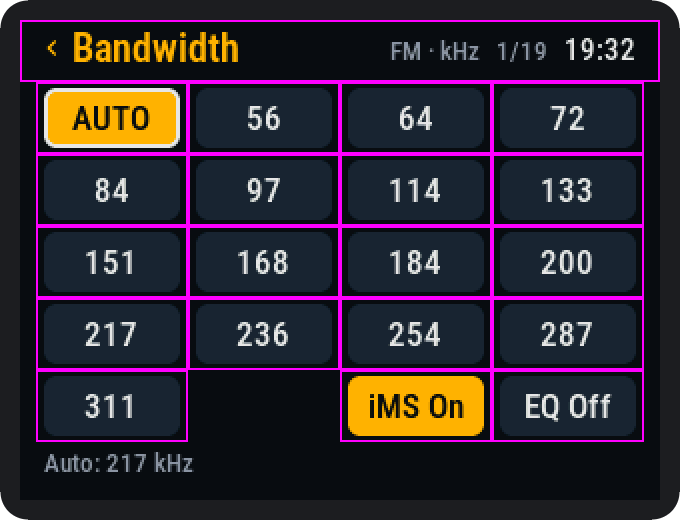
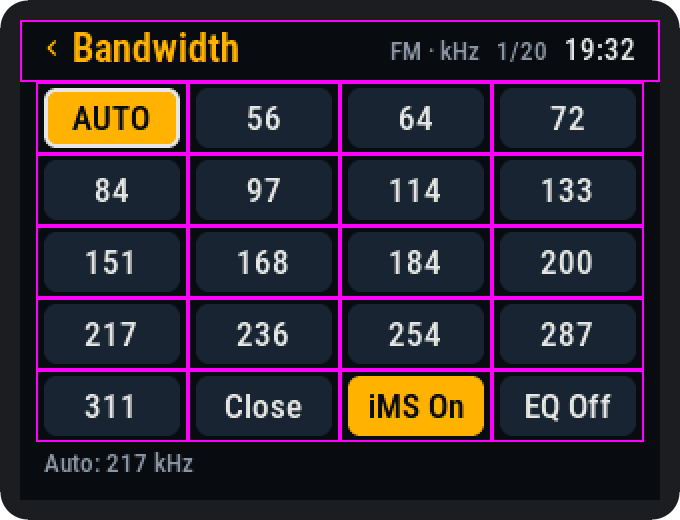
Add a Close tile to the bandwidth page (#126)
The way back now shows on the page and the knob alone reaches it: in
the free cell after 311 on FM, under the first width on AM. A tap or
the knob's press on it closes the page, as MODE does.

Changed region(s): [[0.2779, 0.7077, 0.4941, 0.8615], [0.7721, 0.0615, 0.8029, 0.1231]]

diff --git a/test/test_screen_bw_state/test_screen_bw_state.cpp b/test/test_screen_bw_state/test_screen_bw_state.cpp
@@ -77,7 +77,7 @@ static void no_tiles_still_fills_the_header(void) {
   in.tiles = NULL;
   build(&in);
   TEST_ASSERT_EQUAL_STRING("FM" DOT "kHz", view.context);
-  TEST_ASSERT_EQUAL_STRING("1/19", view.position);
+  TEST_ASSERT_EQUAL_STRING("1/20", view.position);
   for (uint8_t i = 0; i < SCREEN_BW_TILES; i++) {
     TEST_ASSERT_NULL(view.tile[i].text);
   }
@@ -107,8 +107,8 @@ static void more_tiles_than_the_page_holds_are_cut(void) {
   in.count = SCREEN_BW_TILES + 6;
   build(&in);
   TEST_ASSERT_EQUAL_UINT8(SCREEN_BW_TILES, view.count);
-  TEST_ASSERT_EQUAL_STRING("1/19", view.position);
-  TEST_ASSERT_EQUAL_STRING("118", view.tile[SCREEN_BW_TILES - 1].text);
+  TEST_ASSERT_EQUAL_STRING("1/20", view.position);
+  TEST_ASSERT_EQUAL_STRING("119", view.tile[SCREEN_BW_TILES - 1].text);
 }
 
 /* ------------------------------------------------------------- FM */
@@ -117,9 +117,9 @@ static void fm_lists_automatic_first_then_the_widths_and_the_switches(void) {
   const ScreenBwInputs in = inputs(BAND_FM, false);
   build(&in);
   TEST_ASSERT_EQUAL_STRING("FM" DOT "kHz", view.context);
-  TEST_ASSERT_EQUAL_STRING("1/19", view.position);
+  TEST_ASSERT_EQUAL_STRING("1/20", view.position);
   TEST_ASSERT_EQUAL_STRING("19:32", view.clock);
-  TEST_ASSERT_EQUAL_UINT8(19, view.count);
+  TEST_ASSERT_EQUAL_UINT8(20, view.count);
   TEST_ASSERT_TRUE(view.hasSwitches);
   TEST_ASSERT_EQUAL_UINT8(SCREEN_BW_WIDTH, view.tile[0].kind);
   TEST_ASSERT_EQUAL_STRING("AUTO", view.tile[0].text);
@@ -129,10 +129,13 @@ static void fm_lists_automatic_first_then_the_widths_and_the_switches(void) {
   for (uint8_t i = 0; i < 17; i++) {
     TEST_ASSERT_EQUAL_UINT8(SCREEN_BW_WIDTH, view.tile[i].kind);
   }
-  TEST_ASSERT_EQUAL_UINT8(SCREEN_BW_IMS, view.tile[17].kind);
-  TEST_ASSERT_EQUAL_STRING("iMS Off", view.tile[17].text);
-  TEST_ASSERT_EQUAL_UINT8(SCREEN_BW_EQ, view.tile[18].kind);
-  TEST_ASSERT_EQUAL_STRING("EQ Off", view.tile[18].text);
+  TEST_ASSERT_EQUAL_UINT8(SCREEN_BW_CLOSE, view.tile[17].kind);
+  TEST_ASSERT_EQUAL_STRING("Close", view.tile[17].text);
+  TEST_ASSERT_FALSE(view.tile[17].filled);
+  TEST_ASSERT_EQUAL_UINT8(SCREEN_BW_IMS, view.tile[18].kind);
+  TEST_ASSERT_EQUAL_STRING("iMS Off", view.tile[18].text);
+  TEST_ASSERT_EQUAL_UINT8(SCREEN_BW_EQ, view.tile[19].kind);
+  TEST_ASSERT_EQUAL_STRING("EQ Off", view.tile[19].text);
 }
 
 /* On automatic, the automatic tile is the one filled, and the cursor sits
@@ -152,7 +155,7 @@ static void the_width_in_use_is_filled_and_the_cursor_starts_on_it(void) {
   in.widthKHz = 114;
   in.cursor = bwPageStart(tiles, in.count, 114);
   build(&in);
-  TEST_ASSERT_EQUAL_STRING("7/19", view.position);
+  TEST_ASSERT_EQUAL_STRING("7/20", view.position);
   TEST_ASSERT_EQUAL_STRING("114", view.tile[6].text);
   TEST_ASSERT_TRUE(view.tile[6].filled);
   TEST_ASSERT_TRUE(view.tile[6].cursor);
@@ -168,8 +171,9 @@ static void the_cursor_can_sit_on_another_tile(void) {
   in.widthKHz = 114;
   in.cursor = 17;
   build(&in);
-  TEST_ASSERT_EQUAL_STRING("18/19", view.position);
+  TEST_ASSERT_EQUAL_STRING("18/20", view.position);
   TEST_ASSERT_TRUE(view.tile[17].cursor);
+  TEST_ASSERT_EQUAL_STRING("Close", view.tile[17].text);
   TEST_ASSERT_FALSE(view.tile[6].cursor);
   TEST_ASSERT_TRUE(view.tile[6].filled);
   TEST_ASSERT_EQUAL_UINT8(1, cursorCount());
@@ -181,18 +185,18 @@ static void the_switches_show_the_radio_s_state(void) {
   in.ims = true;
   in.eq = false;
   build(&in);
-  TEST_ASSERT_EQUAL_STRING("iMS On", view.tile[17].text);
-  TEST_ASSERT_TRUE(view.tile[17].filled);
-  TEST_ASSERT_EQUAL_STRING("EQ Off", view.tile[18].text);
-  TEST_ASSERT_FALSE(view.tile[18].filled);
+  TEST_ASSERT_EQUAL_STRING("iMS On", view.tile[18].text);
+  TEST_ASSERT_TRUE(view.tile[18].filled);
+  TEST_ASSERT_EQUAL_STRING("EQ Off", view.tile[19].text);
+  TEST_ASSERT_FALSE(view.tile[19].filled);
 
   in.ims = false;
   in.eq = true;
   build(&in);
-  TEST_ASSERT_EQUAL_STRING("iMS Off", view.tile[17].text);
-  TEST_ASSERT_FALSE(view.tile[17].filled);
-  TEST_ASSERT_EQUAL_STRING("EQ On", view.tile[18].text);
-  TEST_ASSERT_TRUE(view.tile[18].filled);
+  TEST_ASSERT_EQUAL_STRING("iMS Off", view.tile[18].text);
+  TEST_ASSERT_FALSE(view.tile[18].filled);
+  TEST_ASSERT_EQUAL_STRING("EQ On", view.tile[19].text);
+  TEST_ASSERT_TRUE(view.tile[19].filled);
   /* The width tile and the switch that is on: two filled. */
   TEST_ASSERT_EQUAL_UINT8(2, filledCount());
 }
@@ -215,8 +219,8 @@ static void dx_mode_leaves_out_automatic(void) {
   in.widthKHz = 114;
   in.cursor = bwPageStart(tiles, in.count, 114);
   build(&in);
-  TEST_ASSERT_EQUAL_UINT8(18, view.count);
-  TEST_ASSERT_EQUAL_STRING("6/18", view.position);
+  TEST_ASSERT_EQUAL_UINT8(19, view.count);
+  TEST_ASSERT_EQUAL_STRING("6/19", view.position);
   TEST_ASSERT_EQUAL_STRING("56", view.tile[0].text);
   for (uint8_t i = 0; i < view.count; i++) {
     TEST_ASSERT_NOT_EQUAL(0, strcmp("AUTO", view.tile[i].text));
@@ -242,8 +246,10 @@ static void the_am_bands_have_four_widths_and_no_switches(void) {
     in.cursor = bwPageStart(tiles, in.count, 6);
     build(&in);
     TEST_ASSERT_EQUAL_STRING(am[b].context, view.context);
-    TEST_ASSERT_EQUAL_UINT8(4, view.count);
-    TEST_ASSERT_EQUAL_STRING("3/4", view.position);
+    TEST_ASSERT_EQUAL_UINT8(5, view.count);
+    TEST_ASSERT_EQUAL_STRING("3/5", view.position);
+    TEST_ASSERT_EQUAL_UINT8(SCREEN_BW_CLOSE, view.tile[4].kind);
+    TEST_ASSERT_EQUAL_STRING("Close", view.tile[4].text);
     TEST_ASSERT_FALSE(view.hasSwitches);
     TEST_ASSERT_EQUAL_STRING("3", view.tile[0].text);
     TEST_ASSERT_EQUAL_STRING("4", view.tile[1].text);

diff --git a/test/test_bw_page/test_bw_page.cpp b/test/test_bw_page/test_bw_page.cpp
@@ -21,33 +21,36 @@ static uint8_t widthsIn(const BwTile *page, uint8_t count) {
 
 static void fm_has_automatic_sixteen_widths_and_two_switches(void) {
   const uint8_t n = bwPageTiles(BAND_FM, false, tiles, BW_PAGE_MAX);
-  TEST_ASSERT_EQUAL_UINT8(19, n);
+  TEST_ASSERT_EQUAL_UINT8(20, n);
   TEST_ASSERT_EQUAL_UINT8(17, widthsIn(tiles, n));
   TEST_ASSERT_EQUAL_UINT8(BW_TILE_WIDTH, tiles[0].kind);
   TEST_ASSERT_EQUAL_UINT16(0, tiles[0].khz);
   TEST_ASSERT_EQUAL_UINT16(56, tiles[1].khz);
   TEST_ASSERT_EQUAL_UINT16(311, tiles[16].khz);
-  TEST_ASSERT_EQUAL_UINT8(BW_TILE_IMS, tiles[17].kind);
-  TEST_ASSERT_EQUAL_UINT8(BW_TILE_EQ, tiles[18].kind);
+  TEST_ASSERT_EQUAL_UINT8(BW_TILE_CLOSE, tiles[17].kind);
+  TEST_ASSERT_EQUAL_UINT8(BW_TILE_IMS, tiles[18].kind);
+  TEST_ASSERT_EQUAL_UINT8(BW_TILE_EQ, tiles[19].kind);
 }
 
 /* DX mode is one fixed width. */
 static void dx_mode_leaves_out_automatic(void) {
   const uint8_t n = bwPageTiles(BAND_FM, true, tiles, BW_PAGE_MAX);
-  TEST_ASSERT_EQUAL_UINT8(18, n);
+  TEST_ASSERT_EQUAL_UINT8(19, n);
   TEST_ASSERT_EQUAL_UINT8(16, widthsIn(tiles, n));
   TEST_ASSERT_EQUAL_UINT16(56, tiles[0].khz);
+  TEST_ASSERT_EQUAL_UINT8(BW_TILE_CLOSE, tiles[16].kind);
 }
 
-/* The AM side has four widths and neither switch. */
+/* The AM side has four widths, Close and neither switch. */
 static void am_bands_have_their_four_widths_only(void) {
   const BandId am[] = {BAND_MW, BAND_LW, BAND_SW};
   for (uint8_t b = 0; b < 3; b++) {
     const uint8_t n = bwPageTiles(am[b], false, tiles, BW_PAGE_MAX);
-    TEST_ASSERT_EQUAL_UINT8(4, n);
+    TEST_ASSERT_EQUAL_UINT8(5, n);
     TEST_ASSERT_EQUAL_UINT8(4, widthsIn(tiles, n));
     TEST_ASSERT_EQUAL_UINT16(3, tiles[0].khz);
     TEST_ASSERT_EQUAL_UINT16(8, tiles[3].khz);
+    TEST_ASSERT_EQUAL_UINT8(BW_TILE_CLOSE, tiles[4].kind);
   }
 }
 
@@ -55,6 +58,10 @@ static void no_room_or_no_band_gives_no_tiles(void) {
   TEST_ASSERT_EQUAL_UINT8(0, bwPageTiles(BAND_FM, false, tiles, 10));
   TEST_ASSERT_EQUAL_UINT8(0, bwPageTiles(BAND_FM, false, tiles, 17));
   TEST_ASSERT_EQUAL_UINT8(0, bwPageTiles(BAND_MW, false, tiles, 3));
+  /* Room for the widths but not for Close, or for Close but not the
+   * switches. */
+  TEST_ASSERT_EQUAL_UINT8(0, bwPageTiles(BAND_MW, false, tiles, 4));
+  TEST_ASSERT_EQUAL_UINT8(0, bwPageTiles(BAND_FM, false, tiles, 18));
   TEST_ASSERT_EQUAL_UINT8(0, bwPageTiles(BAND_FM, false, NULL, BW_PAGE_MAX));
   TEST_ASSERT_EQUAL_UINT8(0, bwPageTiles((BandId)99, false, tiles, 19));
 }

diff --git a/src/ui/screen_bw.cpp b/src/ui/screen_bw.cpp
@@ -35,8 +35,10 @@
 #define RING 2
 #define NOTE_BASE 226
 /* The AM side's four widths sit on the second row rather than the first,
- * so they are not up against the header. */
+ * so they are not up against the header, and Close under the first. */
 #define AM_ROW 1
+/* On FM Close takes the cell after the last width, left of the switches. */
+#define CLOSE_COL 1
 /* The switches' row and columns. */
 #define SWITCH_ROW 4
 #define SWITCH_COL 2
@@ -84,11 +86,15 @@ bool screenBwBegin(void) {
 }
 
 /* Where tile `i` of `s` sits: the widths four to a row, the switches on
- * the last row's right. */
+ * the last row's right, and Close beside them on FM or under the widths on
+ * AM. */
 static void place(const ScreenBw *s, uint8_t i, int16_t *x, int16_t *y) {
   uint8_t row;
   uint8_t col;
-  if (s->tile[i].kind != SCREEN_BW_WIDTH) {
+  if (s->tile[i].kind == SCREEN_BW_CLOSE) {
+    row = s->hasSwitches ? (uint8_t)SWITCH_ROW : (uint8_t)(AM_ROW + 1);
+    col = s->hasSwitches ? (uint8_t)CLOSE_COL : (uint8_t)0;
+  } else if (s->tile[i].kind != SCREEN_BW_WIDTH) {
     row = SWITCH_ROW;
     col = (uint8_t)(SWITCH_COL + (s->tile[i].kind == SCREEN_BW_EQ ? 1 : 0));
   } else if (!s->hasSwitches) {
@@ -175,9 +181,10 @@ int screenBwZones(TouchZone *out, int max) {
 
 const char *screenBwZoneName(int id) {
   static const char *const kNames[] = {
-      "",       "back",   "tile1",  "tile2",  "tile3",  "tile4",  "tile5",
-      "tile6",  "tile7",  "tile8",  "tile9",  "tile10", "tile11", "tile12",
-      "tile13", "tile14", "tile15", "tile16", "tile17", "tile18", "tile19"};
+      "",       "back",   "tile1",  "tile2",  "tile3",  "tile4",
+      "tile5",  "tile6",  "tile7",  "tile8",  "tile9",  "tile10",
+      "tile11", "tile12", "tile13", "tile14", "tile15", "tile16",
+      "tile17", "tile18", "tile19", "tile20"};
   return id > 0 && id < (int)(sizeof(kNames) / sizeof(kNames[0])) ? kNames[id]
                                                                   : "";
 }

diff --git a/src/ui/screen.h b/src/ui/screen.h
@@ -829,17 +829,18 @@ int32_t screenScopeChannelAt(int16_t x);
 
 /*
  * The bandwidth page: every width the band takes as a tile, automatic first
- * on FM, and on FM the iMS and equaliser switches after them. The width in
+ * on FM, a Close tile, and on FM the iMS and equaliser switches after them. The width in
  * use and a switch that is on are filled; the cursor is a ring.
  */
-#define SCREEN_BW_TILES 19
+#define SCREEN_BW_TILES 20
 #define SCREEN_BW_WIDTH 0
 #define SCREEN_BW_IMS 1
 #define SCREEN_BW_EQ 2
+#define SCREEN_BW_CLOSE 3
 
 typedef struct {
-  const char *text; /* "AUTO", "114", "iMS On". */
-  uint8_t kind;     /* SCREEN_BW_WIDTH, _IMS or _EQ: where it sits. */
+  const char *text; /* "AUTO", "114", "iMS On", "Close". */
+  uint8_t kind;     /* SCREEN_BW_WIDTH, _IMS, _EQ or _CLOSE: where it sits. */
   bool filled;      /* The width in use, or a switch that is on. */
   bool cursor;
 } ScreenBwTile;
@@ -866,7 +867,7 @@ typedef enum {
  * 0 while the page is not up. */
 int screenBwZones(TouchZone *out, int max);
 
-/* A zone's name, for GET /api/screen: "back", "tile1" to "tile19", or "". */
+/* A zone's name, for GET /api/screen: "back", "tile1" to "tile20", or "". */
 const char *screenBwZoneName(int id);
 
 bool screenBwBegin(void);

diff --git a/src/core/bw_page.h b/src/core/bw_page.h
@@ -1,6 +1,6 @@
 /*
- * The bandwidth page: every width the band takes as a tile, and on FM the
- * iMS and equaliser switches after them. A hold of BW opens it and the knob
+ * The bandwidth page: every width the band takes as a tile, then a Close
+ * tile, and on FM the iMS and equaliser switches after them. A hold of BW opens it and the knob
  * picks.
  *
  * Pure logic: which tiles, in what order, where the cursor starts and how
@@ -20,13 +20,15 @@
 extern "C" {
 #endif
 
-/* The most tiles: automatic and sixteen FM widths, iMS and the equaliser. */
-#define BW_PAGE_MAX 19
+/* The most tiles: automatic and sixteen FM widths, Close, iMS and the
+ * equaliser. */
+#define BW_PAGE_MAX 20
 
 typedef enum {
   BW_TILE_WIDTH = 0, /* A width; `khz` 0 is automatic. */
   BW_TILE_IMS,       /* The iMS switch. */
   BW_TILE_EQ,        /* The equaliser switch. */
+  BW_TILE_CLOSE,     /* Closes the page, for a finger or the knob alone. */
 } BwTileKind;
 
 typedef struct {

diff --git a/src/lang/en.h b/src/lang/en.h
@@ -349,6 +349,7 @@
   X(DX_FMT_FLOOR, "FLOOR %s", "Floor label on the Scope page, %s is the level in tenths") \
   X(BW_FMT_CONTEXT, "%s \xC2\xB7 kHz", "Header context on the Bandwidth page, band name and unit") \
   X(BW_EQ, "EQ", "Bandwidth page, switch tile name") \
+  X(BW_CLOSE, "Close", "Bandwidth page, the tile that closes the page") \
   X(BW_FMT_AUTO_AT, "Auto: %u kHz", "Bandwidth page, note under the tiles, the width the chip picked") \
   X(RECOVERY_ROTATE_DISPLAY, "Rotate Display", "Recovery screen row name") \
   X(RECOVERY_CALIBRATE_TOUCH, "Calibrate Touch", "Recovery screen row name: runs the touch calibration screen, with the knob to cancel") \

diff --git a/src/screen_bw_state.cpp b/src/screen_bw_state.cpp
@@ -35,6 +35,10 @@ void screenBwStateBuild(const ScreenBwInputs *in, ScreenBwKeep *keep,
         snprintf(keep->text[i], sizeof(keep->text[i]), "%u", (unsigned)t->khz);
       }
       k->filled = t->khz == in->widthKHz;
+    } else if (t->kind == BW_TILE_CLOSE) {
+      k->kind = SCREEN_BW_CLOSE;
+      snprintf(keep->text[i], sizeof(keep->text[i]), "%s", txt(STR_BW_CLOSE));
+      k->filled = false;
     } else {
       const bool ims = t->kind == BW_TILE_IMS;
       k->kind = ims ? SCREEN_BW_IMS : SCREEN_BW_EQ;

diff --git a/src/core/bw_page.c b/src/core/bw_page.c
@@ -25,6 +25,12 @@ uint8_t bwPageTiles(BandId band, bool dxMode, BwTile *out, uint8_t cap) {
     out[n].khz = khz;
     n++;
   }
+  if (n >= cap) {
+    return 0;
+  }
+  out[n].kind = BW_TILE_CLOSE;
+  out[n].khz = 0;
+  n++;
   if (fm) {
     if (n + 2 > cap) {
       return 0;

diff --git a/src/screen_task.cpp b/src/screen_task.cpp
@@ -1473,6 +1473,10 @@ void screenTaskBwPick(void) {
     return;
   }
   const BwTile *t = &sBw->tiles[sBw->cursor];
+  if (t->kind == BW_TILE_CLOSE) {
+    screenTaskBwClose();
+    return;
+  }
   RadioCommand cmd = {};
   if (t->kind == BW_TILE_WIDTH) {
     if (sBw->overDx) {

diff --git a/wiki/Sound-and-Bandwidth.md b/wiki/Sound-and-Bandwidth.md
@@ -25,13 +25,13 @@ Each band keeps its own width, over a power cycle too.
 
 ![The bandwidth page on FM](https://raw.githubusercontent.com/zeevy/tef668x-esp32/master/assets/screens/bw-fm.png)
 
-Hold BW on the radio screen, the RDS pages or DX mode, or use **Menu > Go To > Bandwidth**. The header shows the band and the place of the cursor, such as `1/19`.
+Hold BW on the radio screen, the RDS pages or DX mode, or use **Menu > Go To > Bandwidth**. The header shows the band and the place of the cursor, such as `1/20`.
 
-- On FM it shows 19 tiles: AUTO, the 16 widths, **iMS** and **EQ**. On AM it shows the 4 widths.
+- On FM it shows 20 tiles: AUTO, the 16 widths, **Close**, **iMS** and **EQ**. On AM it shows the 4 widths, with **Close** under the first.
 - The width in use, and a switch that is on, are filled in the theme's main colour. A ring marks the cursor, which starts on the width in use.
 - While AUTO is in use, a note under the tiles says which width the tuner picked, for example `Auto: 217 kHz`.
 
-Turn the knob to move between tiles. Press the knob or ENTER to use that width at once, or to turn iMS or EQ on or off. The page stays open, so you can try the next one. Hold the knob, or tap BW or MODE, to close it. It also closes after one minute with no input, and when the band changes.
+Turn the knob to move between tiles. Press the knob or ENTER to use that width at once, or to turn iMS or EQ on or off. The page stays open, so you can try the next one. Press the knob on **Close**, hold the knob, or tap BW or MODE, to close it. It also closes after one minute with no input, and when the band changes.
 
 Over DX mode there is no AUTO tile, and the width you pick is DX mode's own, which is not saved.
 

diff --git a/wiki/Touch-Screen.md b/wiki/Touch-Screen.md
@@ -110,6 +110,7 @@ The update offer looks like this box but takes no taps: it opens by itself over 
 |---|---|---|
 | A width | Tap | Uses that width, as turning the tuning knob to it and pressing. The page stays up, so widths can be compared by ear |
 | iMS or EQ, on FM | Tap | Turns the switch on or off |
+| Close | Tap | Closes the page, as a tap of MODE |
 | The top line, with the title | Tap | Closes the page, as a tap of MODE. Over DX mode, back to the DX page |
 
 Over DX mode the page sets DX mode's own width and has no AUTO.

diff --git a/wiki/Controls.md b/wiki/Controls.md
@@ -119,7 +119,7 @@ Hold BW to open it. It shows a tile for each filter width of the band, and on FM
 | Control | Tap or turn | Hold |
 |---|---|---|
 | Tuning knob, turn | Moves between the tiles | |
-| Tuning knob, press | Picks that width, or turns iMS or EQ on or off | Closes the page |
+| Tuning knob, press | Picks that width, or turns iMS or EQ on or off. On **Close**, closes the page | Closes the page |
 | ENTER | The same as the knob press | Nothing |
 | BW | Closes the page | |
 | MODE | Closes the page | The menu |
